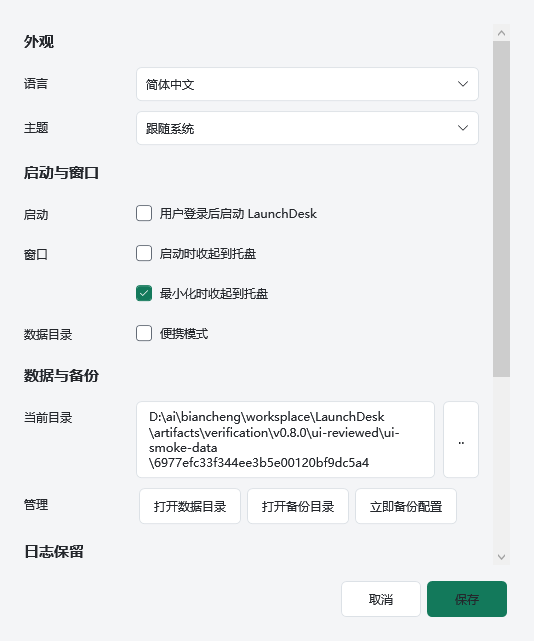
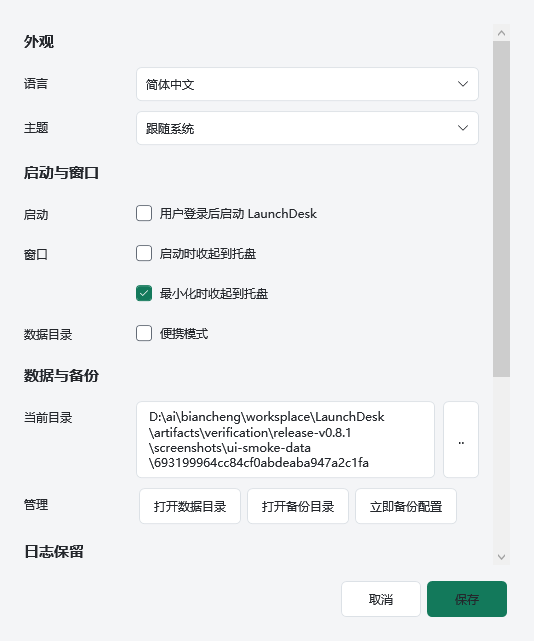
chore: prepare unsigned v0.8.1 prerelease

Changed region(s): [[0.2697, 0.6552, 0.7491, 0.7488]]

diff --git a/README.en.md b/README.en.md
@@ -2,15 +2,21 @@
 
 [Simplified Chinese](README.md) | [English](README.en.md)
 
-A Windows desktop manager for scripts, commands and applications, with real-time logs. Current version: **v0.8.0** (unsigned prerelease, early development).
+A Windows desktop manager for scripts, commands and applications, with real-time logs. Current version: **v0.8.1** (unsigned prerelease, early development).
 
 **Release status:** This is an unsigned prerelease for manual download and installation only. Missing production signing configuration still blocks the trusted update pipeline. Test certificates never enter production trust. See [Trust and engineering verification](docs/trust-and-engineering.md).
 
 ![LaunchDesk](docs/images/main-en.png)
 
-[Current screenshots](docs/screenshots.md) (v0.8.0; isolated fixture data, not first-install configuration).
+[Current screenshots](docs/screenshots.md) (v0.8.1; isolated fixture data, not first-install configuration).
 
 ## Features
+
+### Fixed and Improved in v0.8.1
+
+- Manager switching, isolated service diagnostics and CLI JSON contracts; production packages exclude fault-injection entry points.
+- Batched log writes, reusable decoding buffers and indexed incremental reads; long display lines preserve source prefixes, truncation markers and Unicode boundaries without changing raw logs or export.
+- Empty recovery selections, compiler resolution, independent test deadlines, bilingual resource keys, 1,000 configurations and 200 MiB log gates. See [release verification](docs/release-v0.8.1.md).
 
 ### New and Fixed in v0.8.0
 
@@ -82,7 +88,7 @@ A Windows desktop manager for scripts, commands and applications, with real-time
 
 Windows 10/11 x64. Self-contained packages include the .NET runtime. Keep the entire extracted directory and launch `LaunchDesk.exe`.
 
-Manually download `LaunchDesk-v0.8.0-win-x64-setup.exe` or the portable `LaunchDesk-v0.8.0-win-x64.zip` from [Releases](https://github.com/hailaij/LaunchDesk/releases/tag/v0.8.0). SHA-256 sidecar files are provided. This unsigned prerelease requires manual installation and is not a trusted in-app update. Hashes do not replace publisher signatures.
+Manually download `LaunchDesk-v0.8.1-win-x64-setup.exe` or the portable `LaunchDesk-v0.8.1-win-x64.zip` from [Releases](https://github.com/hailaij/LaunchDesk/releases/tag/v0.8.1). SHA-256 sidecar files are provided. This unsigned prerelease requires manual installation and is not a trusted in-app update. Hashes do not replace publisher signatures.
 
 First launch is empty. No local services are preconfigured or executed. Closing the window hides it to the tray. Use **Exit** in the tray menu to stop all managed processes and drain logs before upgrading. Single-instance activation may restore an already running older copy; window titles show the actual assembly version, and cross-version/path launches show a warning.
 
@@ -146,13 +152,13 @@ dotnet run --project tests/LaunchDesk.Tests -c Release -- --report artifacts/tes
 ./scripts/build-installer.ps1 -CompilerPath 'D:\tool\Inno Setup 6\ISCC.exe'
 ```
 
-Installer output: `artifacts/installers/LaunchDesk-v0.8.0-win-x64-setup.exe` plus SHA-256. Installs for the current user to `%LOCALAPPDATA%\Programs\LaunchDesk`, with optional shortcuts and no default application launch. Exit the tray instance before upgrade/uninstall. User data is retained. This version tests fresh install, upgrade preservation and uninstall using the same script and release payload with an isolated installation identity; it does not upgrade the active production installation. Physical Windows 10 and real-service acceptance remain deferred. Installers are unsigned and bilingual (Simplified Chinese/English). Desktop uninstall retains separate service registration, runtime and data; uninstall the service explicitly first.
+Installer output: `artifacts/installers/LaunchDesk-v0.8.1-win-x64-setup.exe` plus SHA-256. Installs for the current user to `%LOCALAPPDATA%\Programs\LaunchDesk`, with optional shortcuts and no default application launch. Exit the tray instance before upgrade/uninstall. User data is retained. This version tests fresh install, upgrade preservation and uninstall using the same script and release payload with an isolated installation identity; it does not upgrade the active production installation. Physical Windows 10 and real-service acceptance remain deferred. Installers are unsigned and bilingual (Simplified Chinese/English). Desktop uninstall retains separate service registration, runtime and data; uninstall the service explicitly first.
 
 See [Project structure](docs/project-structure.md). Generated files belong under `artifacts/`.
 
 Tests use isolated directories and disposable processes. They cover output flooding, UTF-8 chunking, GBK, trailing partial lines, raw bytes, BAT paths/pause, npm, stdin, environment, dependencies, lifecycle races, restart limits, log failures and process-tree cleanup. Three real services remain untested at the user's request.
 
-The current source core inventory has 107 groups, each in a separate job-contained host with a 120-second deadline and process-tree cleanup. Without a signing fixture, three groups are explicitly skipped; strict CI rejects skips. Historical reports: [Test evidence](docs/test-summary.md). Developers can run `./tests/Verify-Ui.ps1` and `./tests/Verify-Engineering.ps1`. Temporary self-signed trust roots are allowed only on disposable GitHub-hosted runners, never developer workstations. Bilingual XAML resource keys, 1,000-item configuration and 200 MiB log gates are described in [test isolation and scale](docs/scale-and-test-gates.md), including bounded soak commands and limitations. The published v0.8.0 Release and [review record](docs/release-v0.8.0.md) record its 104-group verification scope; subsequent unpublished repairs are described in [manager, service and CLI follow-up](docs/v0.8-review-manager-service-cli.md) and [log display boundary](docs/log-projection-boundary.md). Packaging refuses nonempty publish directories; use a new output directory.
+The current source core inventory has 107 groups, each in a separate job-contained host with a 120-second deadline and process-tree cleanup. Without a signing fixture, three groups are explicitly skipped; strict CI rejects skips. Historical reports: [Test evidence](docs/test-summary.md). Developers can run `./tests/Verify-Ui.ps1` and `./tests/Verify-Engineering.ps1`. Temporary self-signed trust roots are allowed only on disposable GitHub-hosted runners, never developer workstations. Bilingual XAML resource keys, 1,000-item configuration and 200 MiB log gates are described in [test isolation and scale](docs/scale-and-test-gates.md), including bounded soak commands and limitations. The published v0.8.0 Release and [review record](docs/release-v0.8.0.md) record its 104-group verification scope; subsequent repairs included in v0.8.1 are described in [manager, service and CLI follow-up](docs/v0.8-review-manager-service-cli.md) and [log display boundary](docs/log-projection-boundary.md). Packaging refuses nonempty publish directories; use a new output directory.
 
 ```powershell
 tests/LaunchDesk.UiChecks/bin/Release/net10.0-windows/LaunchDesk.UiChecks.exe --ui-smoke artifacts/ui.png
@@ -174,6 +180,22 @@ Use [Issues](https://github.com/hailaij/LaunchDesk/issues) or pull requests. Run
 [MIT](LICENSE). Runtime terms: [Third-party notices](THIRD-PARTY-NOTICES.md). Network and local data handling: [Privacy Policy](PRIVACY.md).
 
 ## Changelog
+
+### [0.8.1] - 2026-10-12
+
+#### Fixed
+
+- Manager-switch rollback, isolated service diagnostics and CLI JSON contracts; production fault injection moved to the test host.
+- Empty recovery selections, installer compiler resolution and long log display prefixes, truncation markers and Chinese/emoji boundaries.
+
+#### Improved
+
+- Batched log persistence, pooled decoding and indexed deltas while retaining stop draining and raw-log integrity.
+- 107 independently job-contained tests, timeout cleanup, bilingual resource keys, 1,000-item and 200 MiB gates, source-hashed evidence.
+
+#### Limitations
+
+- Unsigned, manual installation only; production authorization remains required for trusted publication. One-hour endurance, physical Win10 and real-service acceptance remain deferred.
 
 ### [0.8.0] - 2026-10-12
 

diff --git a/docs/release-v0.8.1.md b/docs/release-v0.8.1.md
@@ -1,0 +1,28 @@
+# v0.8.1 / 未签名预发布 / Unsigned Prerelease
+
+2026-10-12. **未签名、手动安装 / Unsigned, manual installation only.**
+
+## Fixes And Improvements / 修复与优化
+
+- Manager-switch rollback, isolated service diagnostics and CLI JSON contracts. Fault injection lives in the test host, not the production application.
+- Batched log persistence, pooled decoding and indexed incremental reads. Long display lines retain source prefixes, truncation markers and Unicode boundaries; original logs and export remain unchanged.
+- Empty recovery selection and installer compiler resolution regressions.
+- 107 independently job-contained core cases with 120-second deadlines and process-tree cleanup; bilingual XAML resource gates, 1,000-item configuration/UI and 200 MiB log validation.
+
+管理器切换、服务诊断、CLI JSON、生产故障注入隔离及恢复空选择等修复；优化日志底层与增量读取，超长显示不破坏来源前缀和 Unicode 边界。补齐测试超时清理、资源键和规模门禁。
+
+## Evidence / 证据
+
+The pre-version source commit `de36125f8f3e43c9362234498edccc2b87df8845` passed [CI 38253336441](https://github.com/hailaij/LaunchDesk/actions/runs/38253336441): 107 passed, zero failed or skipped; 57 resource keys in both languages; 1,000 rows with 5/4 realized containers; 200 MiB payload with 204,800 exact lines, stop-tail draining and zero skipped records. Both fatal-cleanup probes left no descendants. This is baseline evidence, not proof of the version-bumped release binary; release-specific CI and asset verification are linked on its GitHub Release.
+
+Local ten-minute observations and limits are documented in [test isolation and scale](scale-and-test-gates.md). Release installation acceptance uses the current script and release payload with an independent AppId/mutex and no shortcuts: empty first use, preserved configuration/log/backup/portable-marker hashes after upgrading the v0.8.0 payload, and data retained after uninstall. This does not execute the production-AppId installer or test historical installer-script migration. Final results and asset hashes are recorded on the Release.
+
+版本升级前基线 CI 为 107/0/0；新版本自身 CI、安装验收和资产哈希见 Release，不能用基线替代新二进制验收。安装测试使用独立身份，不改动现有安装及真实服务。
+
+## Limits / 边界
+
+- No production signing authorization or publisher pin. Trusted publication and in-app download remain blocked; test signatures are never production trust. SHA-256 is an integrity check, not publisher identity.
+- One-hour/24-hour endurance tests are deferred; the CI workload is only 120 seconds.
+- Physical Win10, real services, UAC/SCM and screen-reader acceptance remain separate manual work. No silent installation or automatic service-runtime replacement.
+
+未签名、仅手动安装；1 小时耐久本轮不执行，Win10 实机等验收继续暂缓。

diff --git a/docs/user-guide.en.md b/docs/user-guide.en.md
@@ -12,7 +12,7 @@ Output encoding: new items default to `auto`. Each output pipe starts with UTF-8
 
 Windows 10/11 x64 launch manager. Run `LaunchDesk.exe`; the self-contained application includes its runtime.
 
-v0.8.0 is an unsigned prerelease for manual installation only. SHA-256 checks integrity, not publisher identity. Exit the previous tray instance and back up data before upgrading.
+v0.8.1 is an unsigned prerelease for manual installation only. SHA-256 checks integrity, not publisher identity. Exit the previous tray instance and back up data before upgrading.
 
 New in v0.8.0: CLI and crash recovery. Open the desktop app first; use the adjacent `LaunchDesk.Cli.exe list`, `status --json`, `start "name"`, `stop "name"`, or `restart "name"`. `start --all` / `stop --all` control all items. Use an item GUID when names are duplicated. The CLI controls the existing instance, without bypassing UAC or providing remote access. Configured per-item elevation still requires user consent. Exit codes: 0 success, 1 operation failed, 2 invalid arguments, 3 connection failed, 4 timeout; query status after a timeout.
 
@@ -50,7 +50,7 @@ Readiness defaults to off. Optional TCP, HTTP and current-run log keyword checks
 
 Optional TCP/HTTP health monitoring starts after readiness and can reuse a network readiness endpoint or use a separate address. Defaults: 30 seconds after each probe, 5-second timeout, 3 consecutive failures and 2 consecutive successes to recover. Health, check time and failure details appear in the status column, tooltip and status bar. Stop cancels monitoring.
 
-Health-triggered restart is independently off by default. It affects only the current item, respects the existing stop-input/timeout flow, and does not stop/restart dependents. Defaults: 60-second cooldown and at most 3 restarts per rolling 10 minutes; configurable. Rate-limited failures retain the running process and show the reason. Persistent failures can restart after limits expire. User stop is never undone. This feature is not in the published v0.8.0 binaries. Use lightweight, side-effect-free endpoints; monitoring repeatedly contacts the configured address.
+Health-triggered restart is independently off by default. It affects only the current item, respects the existing stop-input/timeout flow, and does not stop/restart dependents. Defaults: 60-second cooldown and at most 3 restarts per rolling 10 minutes; configurable. Rate-limited failures retain the running process and show the reason. Persistent failures can restart after limits expire. User stop is never undone. Use lightweight, side-effect-free endpoints; monitoring repeatedly contacts the configured address.
 
 Default data: `%LOCALAPPDATA%\LaunchDesk`. Configuration: `config.json`; automatic backups: `backups/` (20 retained); manual snapshots: `backups/manual/` (not automatically pruned); logs: `logs/<item ID>/`. Manual snapshots contain configuration, not scripts or logs.
 

diff --git a/docs/screenshots.md b/docs/screenshots.md
@@ -1,6 +1,6 @@
 # Screenshots / 界面截图
 
-v0.8.0, generated from the current WPF application on 2026-10-12.
+v0.8.1, generated from the current WPF application on 2026-10-12.
 截图由当前程序的隔离界面测试生成，示例启动项未执行，也不会随首次安装创建。
 These are fixture previews, not preinstalled services or user configuration.
 Version and image SHA-256 inventory: [manifest](images/manifest.json).
@@ -9,27 +9,27 @@ their hashes and the current version in CI; visual inspection is still required.
 
 ## 简体中文
 
-![v0.8.0 Chinese main window](images/main.png)
+![v0.8.1 Chinese main window](images/main.png)
 
 ## English
 
-![v0.8.0 English compact window](images/main-en.png)
+![v0.8.1 English compact window](images/main-en.png)
 
 ## Dark Theme / 深色主题
 
-![v0.8.0 dark theme](images/main-dark.png)
+![v0.8.1 dark theme](images/main-dark.png)
 
 ## Health Settings / 健康监控设置
 
-![v0.8.0 health monitoring settings](images/health-settings.png)
+![v0.8.1 health monitoring settings](images/health-settings.png)
 
 ## Settings / 设置
 
-![v0.8.0 settings](images/settings.png)
+![v0.8.1 settings](images/settings.png)
 
 ## First Launch / 首次运行
 
-![v0.8.0 empty first launch](images/first-launch.png)
+![v0.8.1 empty first launch](images/first-launch.png)
 
 Real UAC/SCM, screen readers and physical Windows 10 acceptance remain pending.
 真实 UAC/SCM、读屏软件和 Windows 10 实机验收仍待完成。

diff --git a/docs/scale-and-test-gates.md b/docs/scale-and-test-gates.md
@@ -1,7 +1,7 @@
 # Test isolation and scale / 测试隔离与规模验证
 
-Unreleased changes. Production signing configuration and user service data are unchanged.
-未发布改动，不改变生产签名配置及用户真实服务数据。
+Included in v0.8.1. Production signing configuration and user service data are unchanged.
+v0.8.1 收录的改动，不改变生产签名配置及用户真实服务数据。
 
 ## Independent Deadlines / 独立超时
 
